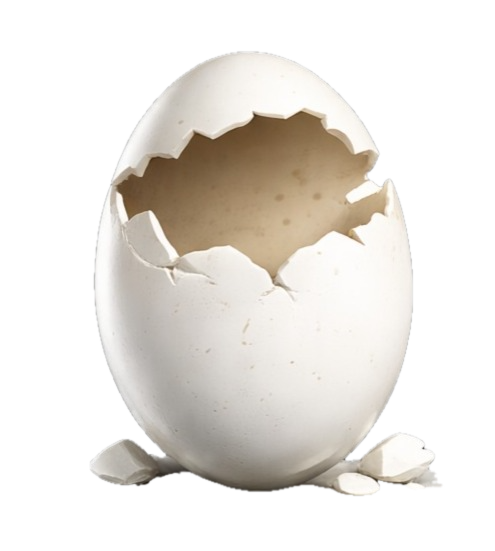
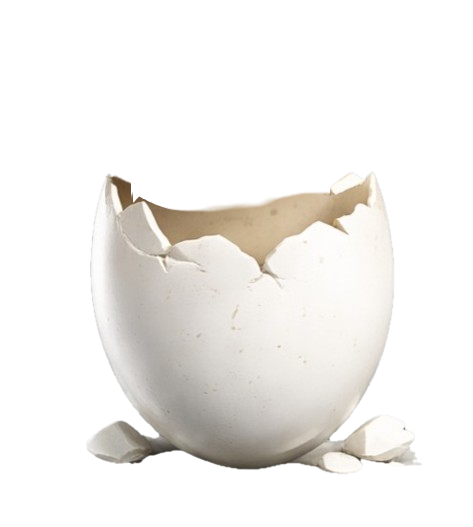
Add PlaceType egg cards, update home screen, and remove unused assets

diff --git a/screens/HomeScreen.jsx b/screens/HomeScreen.jsx
@@ -42,9 +42,18 @@ import parrotMarker3 from "../assets/parrotMarkers/parrotMarker3.png";
 import parrotMarker4 from "../assets/parrotMarkers/parrotMarker4.png";
 import parrotMarker5 from "../assets/parrotMarkers/parrotMarker5.png";
 import parrotMarker6 from "../assets/parrotMarkers/parrotMarker6.png";
-import goldenegg from "../assets/goldenegg.png";
+import whiteegg from "../assets/whiteegg.png";
+import crackedwhiteegg from "../assets/crackedwhiteegg.png";
 import silveregg from "../assets/silveregg.png";
+import crackedsilveregg from "../assets/crackedsilveregg.png";
+import goldenegg from "../assets/goldenegg.png";
 import crackedgoldenegg from "../assets/crackedgoldenegg.png";
+
+const placeEggs = {
+  1: { normal: whiteegg, cracked: crackedwhiteegg },
+  2: { normal: silveregg, cracked: crackedsilveregg },
+  3: { normal: goldenegg, cracked: crackedgoldenegg },
+};
 import { TokenExpiryGuard } from "../components/TokenExpiryGuard";
 import {
   applyFilterAppliedBackgroundColor, applyFilterAppliedBorderColor, applyFilterAppliedColor,
@@ -76,7 +85,7 @@ const PlaceEggMarker = memo(({ item, onPress }) => {
     >
       <View style={{ width: 44, height: 52, overflow: "visible" }}>
         <Image
-          source={pressed ? crackedgoldenegg : goldenegg}
+          source={pressed ? (placeEggs[item.placeType]?.cracked || crackedgoldenegg) : (placeEggs[item.placeType]?.normal || goldenegg)}
           style={{ width: 33, height: 37 }}
           resizeMode="contain"
           onLoad={() => setTimeout(() => setTracksView(false), 200)}
@@ -131,7 +140,7 @@ export default function HomeScreen({ navigation }) {
   const [latitudeM, setLatitudeM] = useState(0);
   const [longitudeM, setLongitudeM] = useState(0);
   const [refreshing, setRefreshing] = useState(false);
-  const [hasError, setHasError] = useState(false);
+  const [hasError, setHasError] = useState(true);
   const [selectedVoyageModalVisible, setSelectedVoyageModalVisible] = useState(false);
   const [selectedPlaceModalVisible, setSelectedPlaceModalVisible] = useState(false);
   const [selectedPlace, setSelectedPlace] = useState(null);
@@ -570,14 +579,6 @@ export default function HomeScreen({ navigation }) {
       <TokenExpiryGuard />
       <ScrollView
         style={styles.scrollview}
-        refreshControl={
-          <RefreshControl
-            refreshing={refreshing}
-            onRefresh={onRefresh}
-            colors={[parrotPistachioGreen, parrotBananaLeafGreen]}
-            tintColor={parrotBananaLeafGreen}
-          />
-        }
       >
         <View style={styles.countModal}>
           <FilterCountModal
@@ -745,7 +746,7 @@ export default function HomeScreen({ navigation }) {
                   const imageIndex = index % markerImages.length;
                   const markerImage = markerImages[imageIndex];
 
-                  if (item.isPlace) {
+                  if (item.placeType > 0) {
                     return <PlaceEggMarker key={`egg-${item.id}`} item={item} onPress={updateSelectedPlaceData} />;
                   }
 
@@ -769,10 +770,13 @@ export default function HomeScreen({ navigation }) {
               <View>
                 <Image
                   source={require("../assets/parrotslogo.png")}
-                  style={styles.logoImage}
+                  style={styles.logoImageSmall}
                 />
-                <Text style={styles.currentBidsTitle2}>Something went wrong</Text>
-                <Text style={styles.currentBidsTitle2}>Swipe down to retry</Text>
+                <Text style={{ ...styles.currentBidsTitle2, top: vh(-1) }}>Something went wrong</Text>
+                <TouchableOpacity onPress={onRefresh}
+                  style={{ alignSelf: "center", backgroundColor: parrotBlue, paddingHorizontal: 24, paddingVertical: 8, borderRadius: 20 }}>
+                  <Text style={{ color: "white", fontFamily: "Nunito_700Bold", fontSize: 14 }}>Retry</Text>
+                </TouchableOpacity>
               </View>
             </View>
           ) : null}
@@ -803,8 +807,8 @@ export default function HomeScreen({ navigation }) {
             </View>
           ) : (
             <VoyageListHorizontal focusMap={focusMap} data={(() => {
-              const voyages = initialVoyages.filter(v => !v.isPlace).map((v, i) => ({ ...v, markerImage: markerImages[i % markerImages.length] }));
-              const places = initialVoyages.filter(v => v.isPlace);
+              const voyages = initialVoyages.filter(v => v.placeType === 0).map((v, i) => ({ ...v, markerImage: markerImages[i % markerImages.length] }));
+              const places = initialVoyages.filter(v => v.placeType > 0).sort((a, b) => b.placeType - a.placeType);
               const result = [];
               let vi = 0, pi = 0;
               while (vi < voyages.length || pi < places.length) {
@@ -997,6 +1001,11 @@ const styles = StyleSheet.create({
   logoImage: {
     height: vh(23),
     width: vh(23),
+    alignSelf: "center",
+  },
+  logoImageSmall: {
+    height: vh(14),
+    width: vh(14),
     alignSelf: "center",
   },
   buttonClose: {

diff --git a/components/PlaceCardHorizontal.jsx b/components/PlaceCardHorizontal.jsx
@@ -6,9 +6,15 @@ import { View, Text, Image, StyleSheet, TouchableOpacity, Linking } from "react-
 import { vw, vh } from "react-native-expo-viewport-units";
 import { Shadow } from "react-native-shadow-2";
 import { parrotBlue, parrotCream } from "../assets/color";
-const goldenegg = require("../assets/goldenegg.png");
 
-export default function PlaceCardHorizontal({ cardHeader, cardDescription, cardImage, link, latitude, longitude, focusMap }) {
+const eggConfig = {
+  1: { image: require("../assets/whiteegg.png"), background: "#e8e8e8" },
+  2: { image: require("../assets/silveregg.png"), background: "#b0b7c3" },
+  3: { image: require("../assets/goldenegg.png"), background: "#FFD700" },
+};
+
+export default function PlaceCardHorizontal({ cardHeader, cardDescription, cardImage, link, latitude, longitude, focusMap, placeType }) {
+  const egg = eggConfig[placeType] || eggConfig[3];
   const handlePress = () => {
     if (!link) return;
     const url = link.startsWith("http") ? link : `https://${link}`;
@@ -25,9 +31,9 @@ export default function PlaceCardHorizontal({ cardHeader, cardDescription, cardI
         radius={12}
       >
         <View style={styles.cardContainerWrapper}>
-          <View style={styles.eggBadgeClip}>
+          <View style={[styles.eggBadgeClip, { backgroundColor: egg.background }]}>
             <View style={styles.eggBadgeOffset}>
-              <Image source={goldenegg} style={styles.eggBadge} resizeMode="contain" />
+              <Image source={egg.image} style={styles.eggBadge} resizeMode="contain" />
             </View>
           </View>
           <View style={styles.cardContainer}>
@@ -73,7 +79,6 @@ const styles = StyleSheet.create({
     zIndex: 10,
     overflow: "hidden",
     borderRadius: 17,
-    backgroundColor: "#FFD700",
   },
   eggBadgeOffset: {
     position: "relative",

diff --git a/components/VoyageListHorizontal.jsx b/components/VoyageListHorizontal.jsx
@@ -10,7 +10,7 @@ import { parrotLightBlue } from "../assets/color";
 
 export default function VoyageListHorizontal({ data, focusMap }) {
   const renderItem = ({ item }) => {
-    if (item.isPlace) {
+    if (item.placeType > 0) {
       return (
         <PlaceCardHorizontal
           key={item.id}
@@ -21,6 +21,7 @@ export default function VoyageListHorizontal({ data, focusMap }) {
           latitude={item.waypoints[0]?.latitude}
           longitude={item.waypoints[0]?.longitude}
           focusMap={focusMap}
+          placeType={item.placeType}
         />
       );
     }
@@ -53,8 +54,7 @@ export default function VoyageListHorizontal({ data, focusMap }) {
             style={styles.logoImage}
           />
           <Text style={styles.currentBidsTitle2}>
-            No voyages here... {"\n"}
-            Shove off and seek elsewhere!
+            Nothing here at this time{"\n"}Explore a different area
           </Text>
         </View>
       </View>
@@ -75,6 +75,7 @@ export default function VoyageListHorizontal({ data, focusMap }) {
           styles.containerHorizontal,
           data.length === 1 && { marginLeft: 0, justifyContent: "center", width: "100%" },
         ]}
+        ListFooterComponent={<View style={{ width: vw(4) }} />}
       />
     );
 }

diff --git a/screens/ProfileScreen.jsx b/screens/ProfileScreen.jsx
@@ -750,7 +750,7 @@ export default function ProfileScreen({ navigation }) {
                       <View style={styles.voyageListContainer}>
                         <VoyageListVertical
                           style={styles.voyageList}
-                          data={VoyagesData?.filter(v => !v.isPlace)}
+                          data={VoyagesData?.filter(v => v.placeType === 0)}
                         />
                       </View>
                     </>